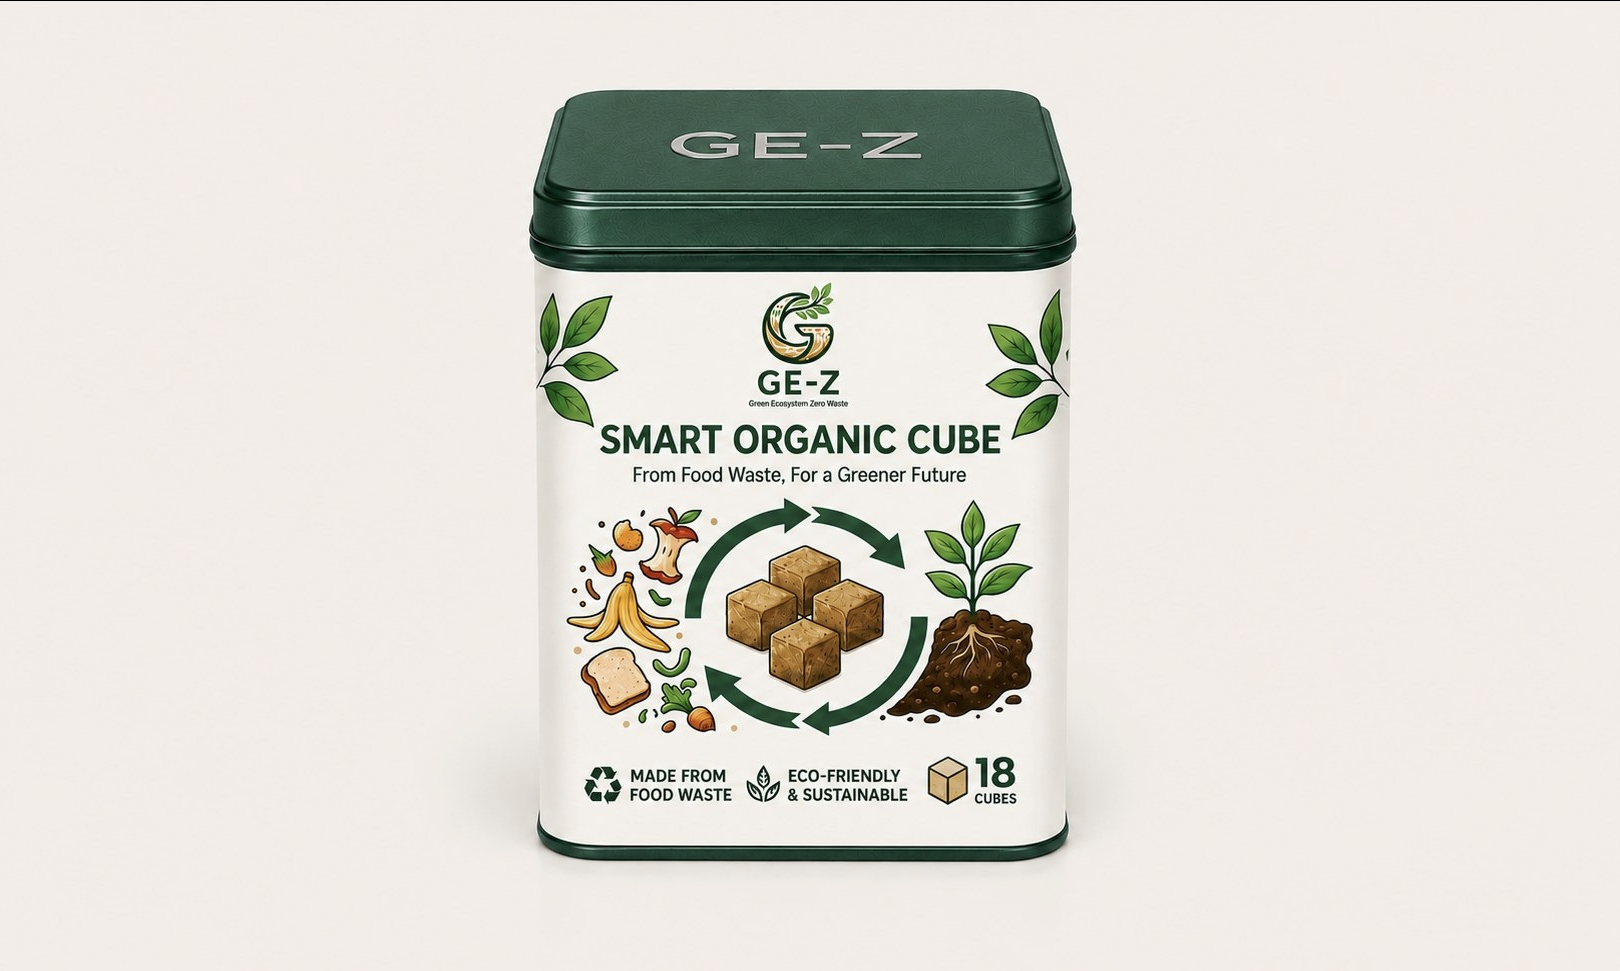
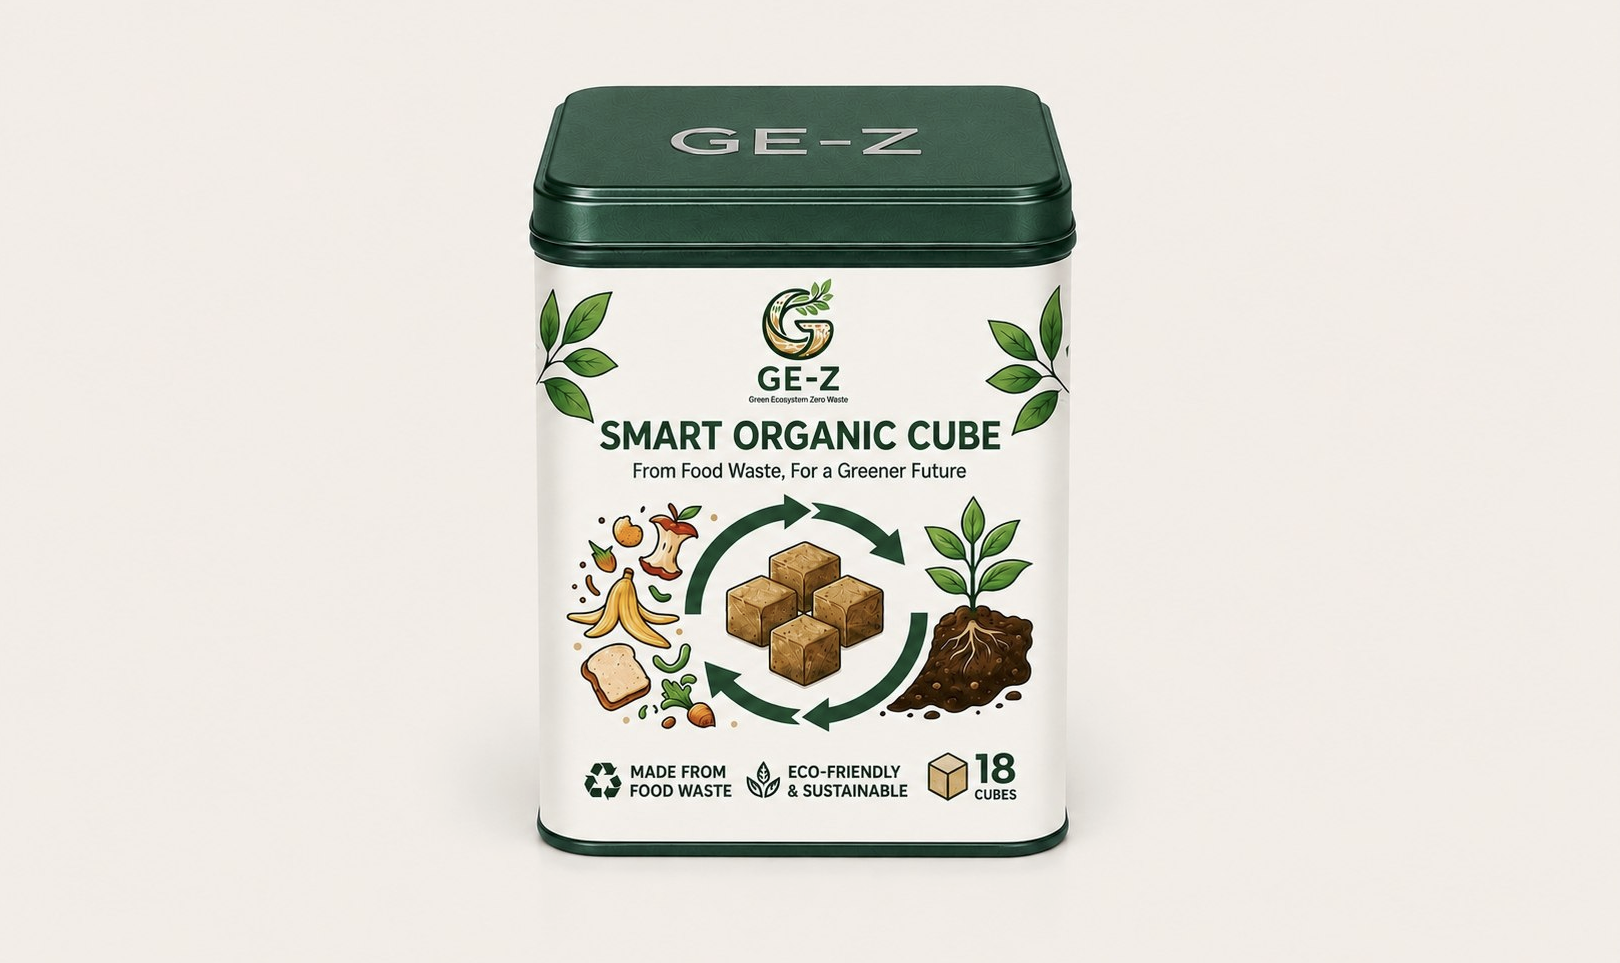
remove thin black line from product photos

diff --git a/index.html b/index.html
@@ -18,7 +18,7 @@
     --leaf-soft:#8FC178;
   }
   *{box-sizing:border-box; margin:0; padding:0;}
-  html{scroll-behavior:smooth;}
+  html{scroll-behavior:smooth; overflow-x:hidden;}
   body{
     font-family:'Work Sans', sans-serif;
     background:var(--cream);
